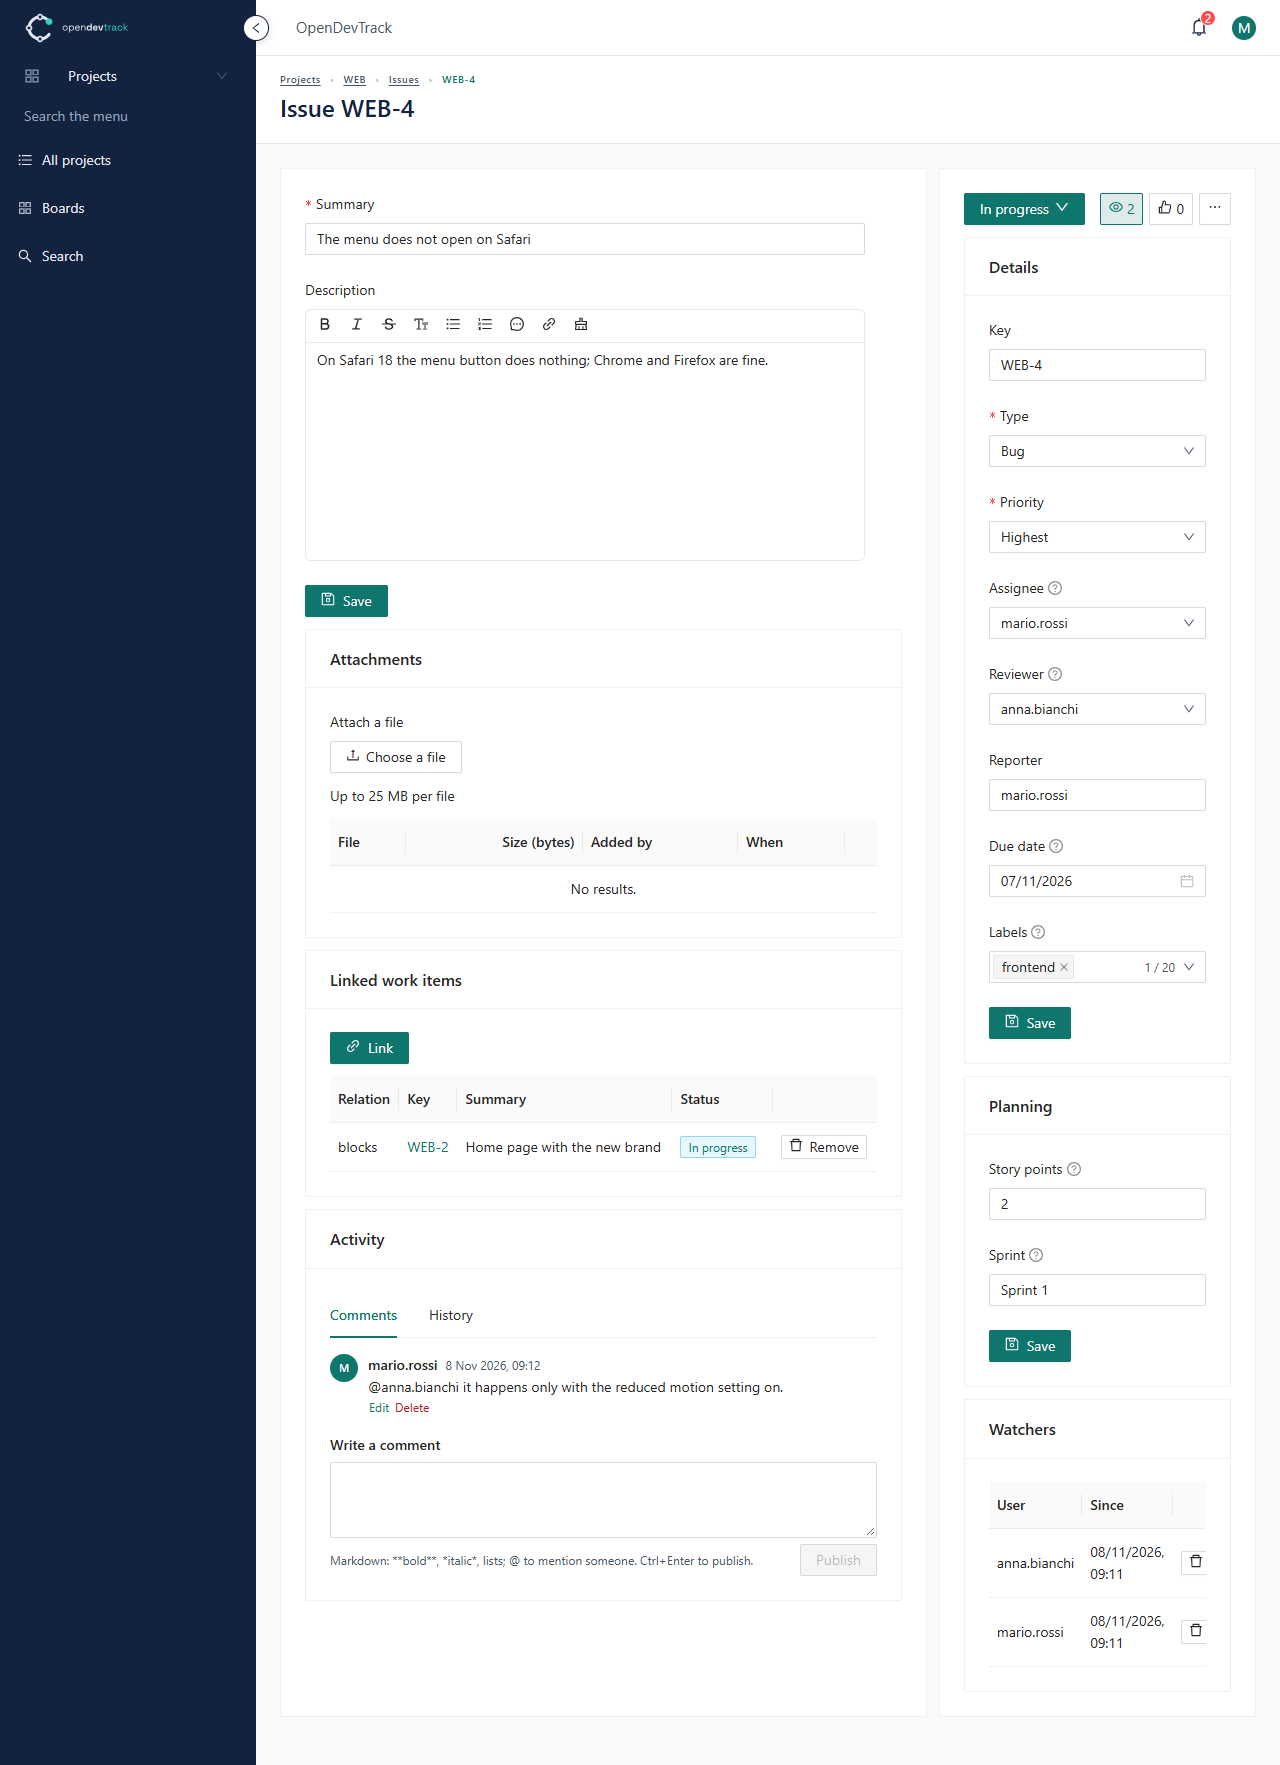
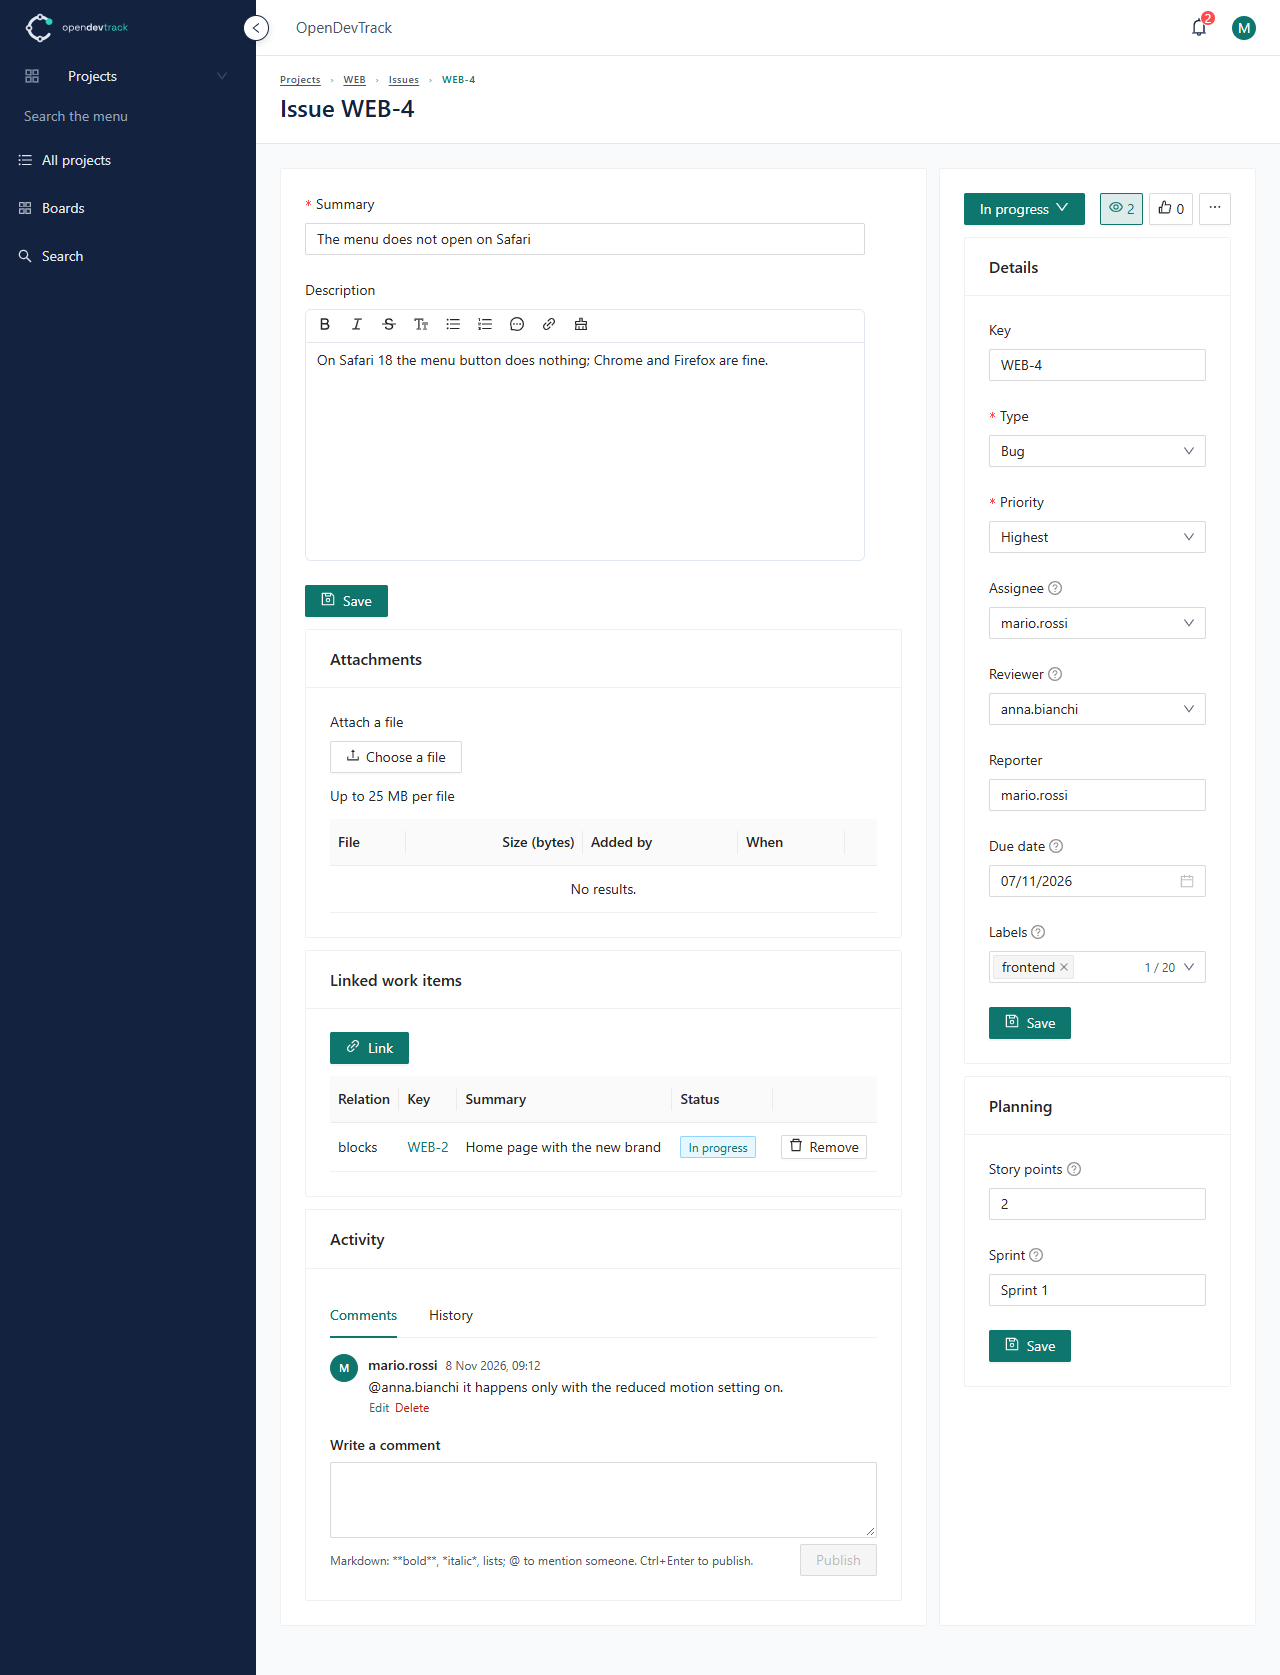
feat(ui): the watchers of an issue in a window, from the menu of the eye
As in Jira, the menu of the eye has watch or stop watching, then «Watchers»: a window with who watches the issue and since when, «Remove» for whoever may, and «Add watcher…». The box of the watchers at the bottom of the right column goes; the item «Add watcher» leaves the menu for the window.

diff --git a/docs/guide/issues.md b/docs/guide/issues.md
@@ -59,7 +59,7 @@ On the right is what describes it:
   its statuses, the transitions between them and the current status outlined;
 - next to it, a red flag while the issue is flagged (developers and admins remove the flag with it), then the eye
   with the number of people watching the issue, highlighted while you watch it: its menu
-  has «Watch» or «Stop watching», and «Add watcher»;
+  has «Watch» or «Stop watching», and «Watchers», a window with who is watching it ([below](#watchers));
 - the thumb with the number of votes, highlighted when you voted: it adds your vote or takes it back;
 - «…», more actions: «Add flag» or «Remove flag», «Add vote» or «Remove vote» ([below](#flag-and-votes)), «All issues»,
   and «Delete», for the admins of the project. Delete cannot be undone, and the
@@ -67,8 +67,7 @@ On the right is what describes it:
 - **Details**: its key, type, priority, assignee, reviewer, reporter, due date, labels and custom fields,
   saved with their own «Save»;
 - **Planning**: its story points (0 to 999, empty when not estimated) and the sprint it is planned in, with their own
-  «Save»;
-- **Watchers**: who is watching it.
+  «Save».
 
 Each «Save» saves only its own box, and shows the issue again as saved. If someone else saved the issue in the
 meantime, saving says so: reload it and make the change again, so that no change is lost.
@@ -117,8 +116,8 @@ without asking:
 - each assignee, from the assignment;
 - whoever is mentioned.
 
-Anyone who sees the issue can start watching it or stop. Developers and admins also add a member with «Add watcher»,
-or remove one.
+Anyone who sees the issue can start watching it or stop, from the menu of the eye. «Watchers», in the same menu, lists
+who is watching it and since when; there developers and admins add a member with «Add watcher…», or remove one.
 
 ### Flag and votes
 

diff --git a/ui/README.md b/ui/README.md
@@ -39,9 +39,9 @@ loads them from the registry of the back end (module `uiregistry`, ADR-03).
   to another page.
 - **Issue page**: `issue-detail` is a `grid` of 12 columns, as the page of a work item in Jira: on the left (8)
   the summary and the description, then the sections Attachments, Linked work items and Activity (tabs Comments and
-  History); on the right (4) a row with the status and, as icons, the flag, the menu Watchers, the votes and the menu More actions, then Details, Planning and
-  Watchers. The two menus are `menuButton`s with `display: icon` (Quadrava 0.24.0, Q40): the eye with `count` (the
-  watchers) and `pressed` (watching), and «…» with Delete in `tone: danger`. The flag
+  History); on the right (4) a row with the status and, as icons, the flag, the menu Watchers, the votes and the menu More actions, then Details and Planning. The two menus are `menuButton`s with `display: icon` (Quadrava 0.24.0, Q40): the eye with `count` (the
+  watchers) and `pressed` (watching), whose menu has watch or stop and «Watchers», a `view` step with the table of
+  the watchers and «Add watcher…», and «…» with Delete in `tone: danger`. The flag
   and the votes are `button`s (Quadrava 0.25.1, Q41): the flag with `tone: danger` and `pressed`, shown only while
   flagged; the thumb with `count`, two buttons by `visibleIf` (vote, take the vote back). «Add flag» opens a
   `popover` under «…» for the optional comment. Buttons are icon-only unless a text is

diff --git a/CHANGELOG.md b/CHANGELOG.md
@@ -8,6 +8,11 @@ The entries are written by hand at each release from the commits ([docs/release.
 
 ## [Unreleased]
 
+### Changed
+
+- **Issues**: the watchers of an issue are in a window, «Watchers» in the menu of the eye, with «Add watcher…»; the
+  box of the watchers at the bottom of the right column is gone, as in Jira.
+
 ## [1.0.0-rc.9] - 2026-11-26
 
 The ninth candidate: the page of an issue closer to Jira, in two columns, with the status as a button with its
